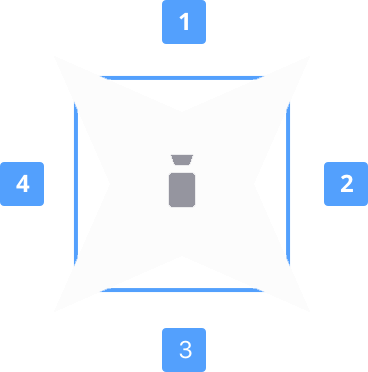
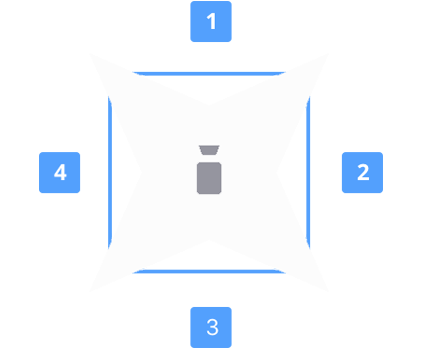
details page - clean up pano / non-pano preview

diff --git a/web/states/details/details.js b/web/states/details/details.js
@@ -60,6 +60,10 @@ angular.module('ua5App.details', ['ngFileUpload', 'color.picker'])
                     is_panorama: $scope.sceneTypeToggle,
                     title: $scope.sceneName,
                     project: $stateParams.projectId
+                }).then(function() {
+                    if (!$scope.singlePanel) {
+                        getSceneInfo($scope.currentScene);
+                    }
                 });
             }
         });
@@ -182,6 +186,12 @@ angular.module('ua5App.details', ['ngFileUpload', 'color.picker'])
         function getSceneInfo(sceneId) {
             sceneFactory.getSceneById(sceneId)
                 .then(function(response) {
+                    if (response.data.content.length > 1) {
+                        $scope.singlePanel = false;
+                    } else {
+                        $scope.singlePanel = true;
+                    }
+
                     if (response.data.is_panorama) {
                         $scope.sceneTypeToggle = true;
                     } else {
@@ -336,10 +346,8 @@ angular.module('ua5App.details', ['ngFileUpload', 'color.picker'])
                         $scope.panels = _.sortBy($scope.panels, 'order');
                         if ($scope.panels.length === 1) {
                             $scope.singlePanel = true;
-                            $scope.panorama = true;
-                        } else {
-                            $scope.singlePanel = false;
                         }
+
                         $scope.emptyScene = false;
                     } else {
                         $scope.emptyScene = true;

diff --git a/web/states/details/details.html b/web/states/details/details.html
@@ -73,16 +73,19 @@
                     </div>
                 </div>
                 <div class="scene-preview__display">
-                    <div ng-if="panels.length === 1 || (panels.length > 2 && panels.length < 7)">
+                    <div ng-if="sceneTypeToggle">
+                        <img class="preview-icon" ng-src="assets/img/1.png">
+                    </div>
+                    <div ng-if="(panels.length > 2 && panels.length < 7 && !sceneTypeToggle)">
                         <img class="preview-icon" ng-src="assets/img/{{panels.length}}.png">
                     </div>
-                    <div ng-if="panels.length > 6">
+                    <div class="scene-preview__message" ng-if="panels.length > 6 && !sceneTypeToggle">
                         <p>We recommend you keep your scene under 7 panels</p>
                     </div>
-                    <div ng-if="panels.length < 3 && panels.length > 1">
+                    <div class="scene-preview__message" ng-if="panels.length < 3 && panels.length > 1 && !sceneTypeToggle">
                         <p>We recommend you add at&nbsp;least 3 panels</p>
                     </div>
-                    <h5>Preview</h5>
+                    <h5 class="scene-preview__copy" ng-class="{'hide': (panels.length < 3 && panels.length > 1) && !sceneTypeToggle || panels.length > 6 && !sceneTypeToggle}">Preview</h5>
                 </div>
                 <div class="scene-preview__color-picker">
                     <h5 class="scene-preview__section-title">Scene Background</h5>

diff --git a/web/states/details/details.scss b/web/states/details/details.scss
@@ -181,10 +181,28 @@
     @include padding(23px 0);
 }
 
+.scene-preview__copy {
+    @include position(absolute);
+    bottom: 25px;
+    left: 0;
+    width: 100%;
+
+    &.hide {
+        display: none;
+    }
+}
+
+.scene-preview__message {
+    @include align-all(absolute);
+    width: 80%;
+}
+
 .scene-preview__display {
     @include padding(20px 20px 40px);
     background: radial-gradient(ellipse at center, rgba(255, 255, 255, 1) 0%, rgba(244, 244, 244, 1) 100%);
     filter: progid:DXImageTransform.Microsoft.gradient(startColorstr='#fff', endColorstr='#f4f4f4', GradientType=1);
+    min-height: 290px;
+    position: relative;
 }
 
 .scene-preview__icon {
